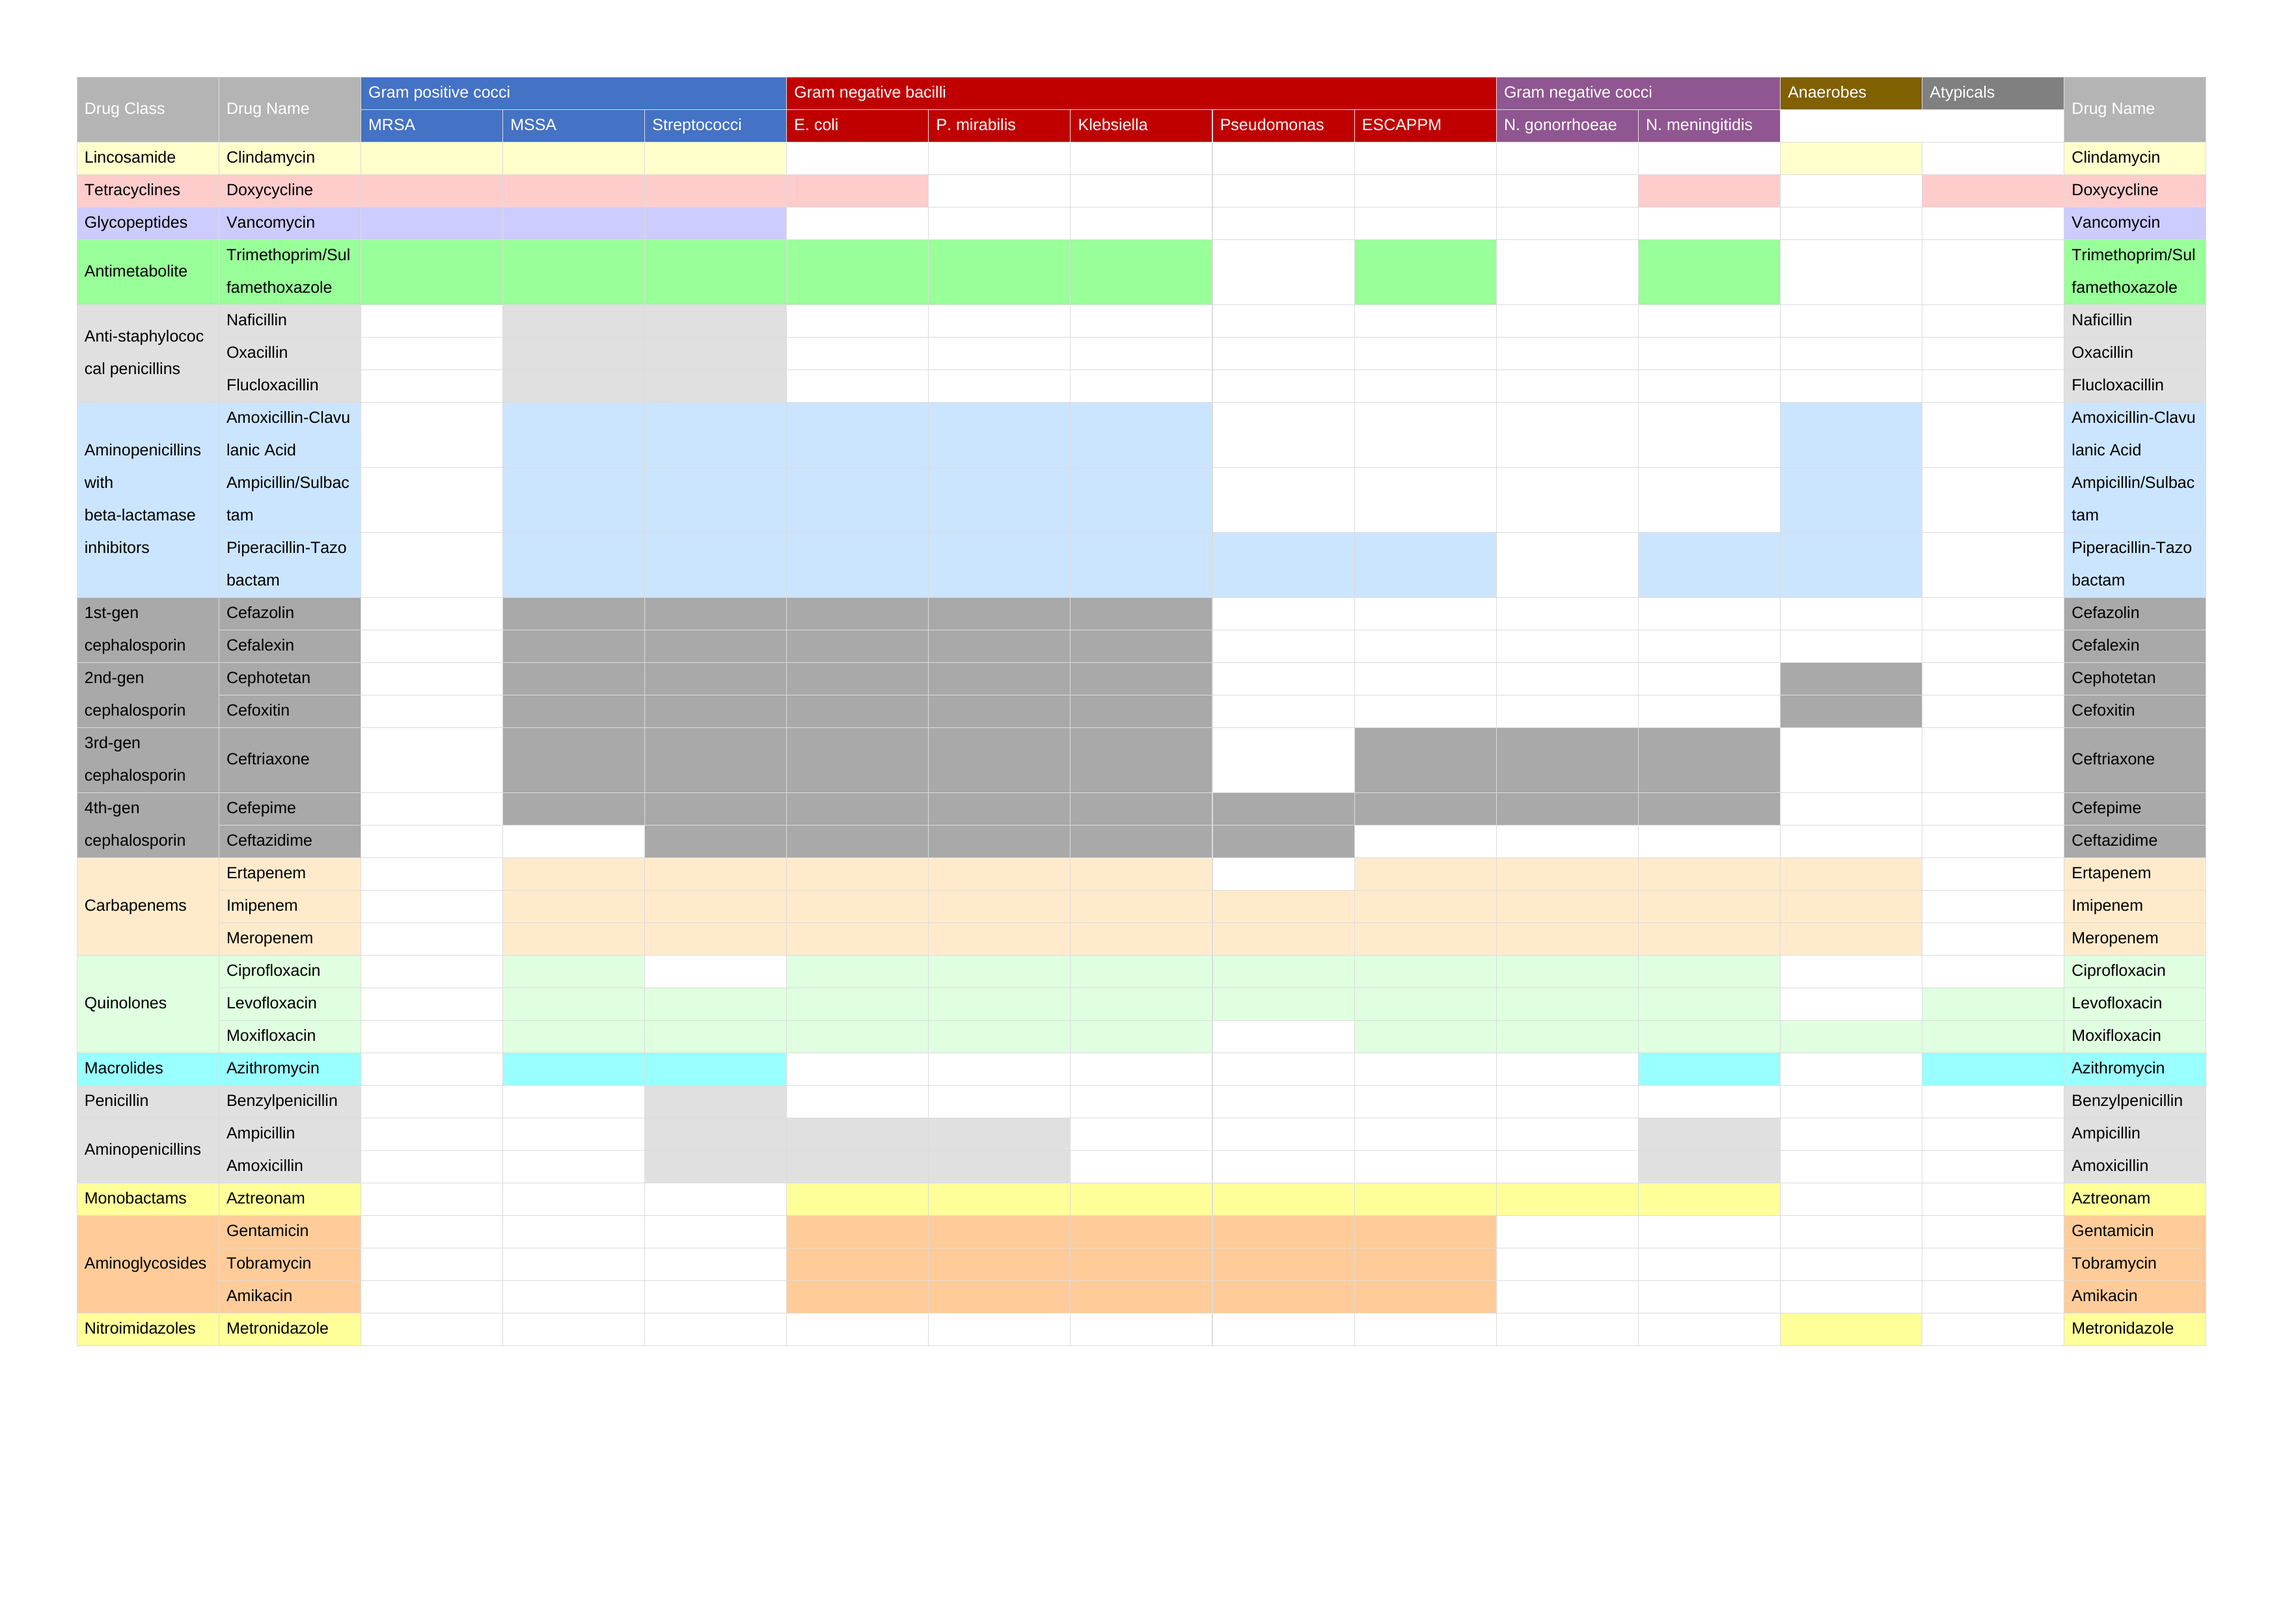
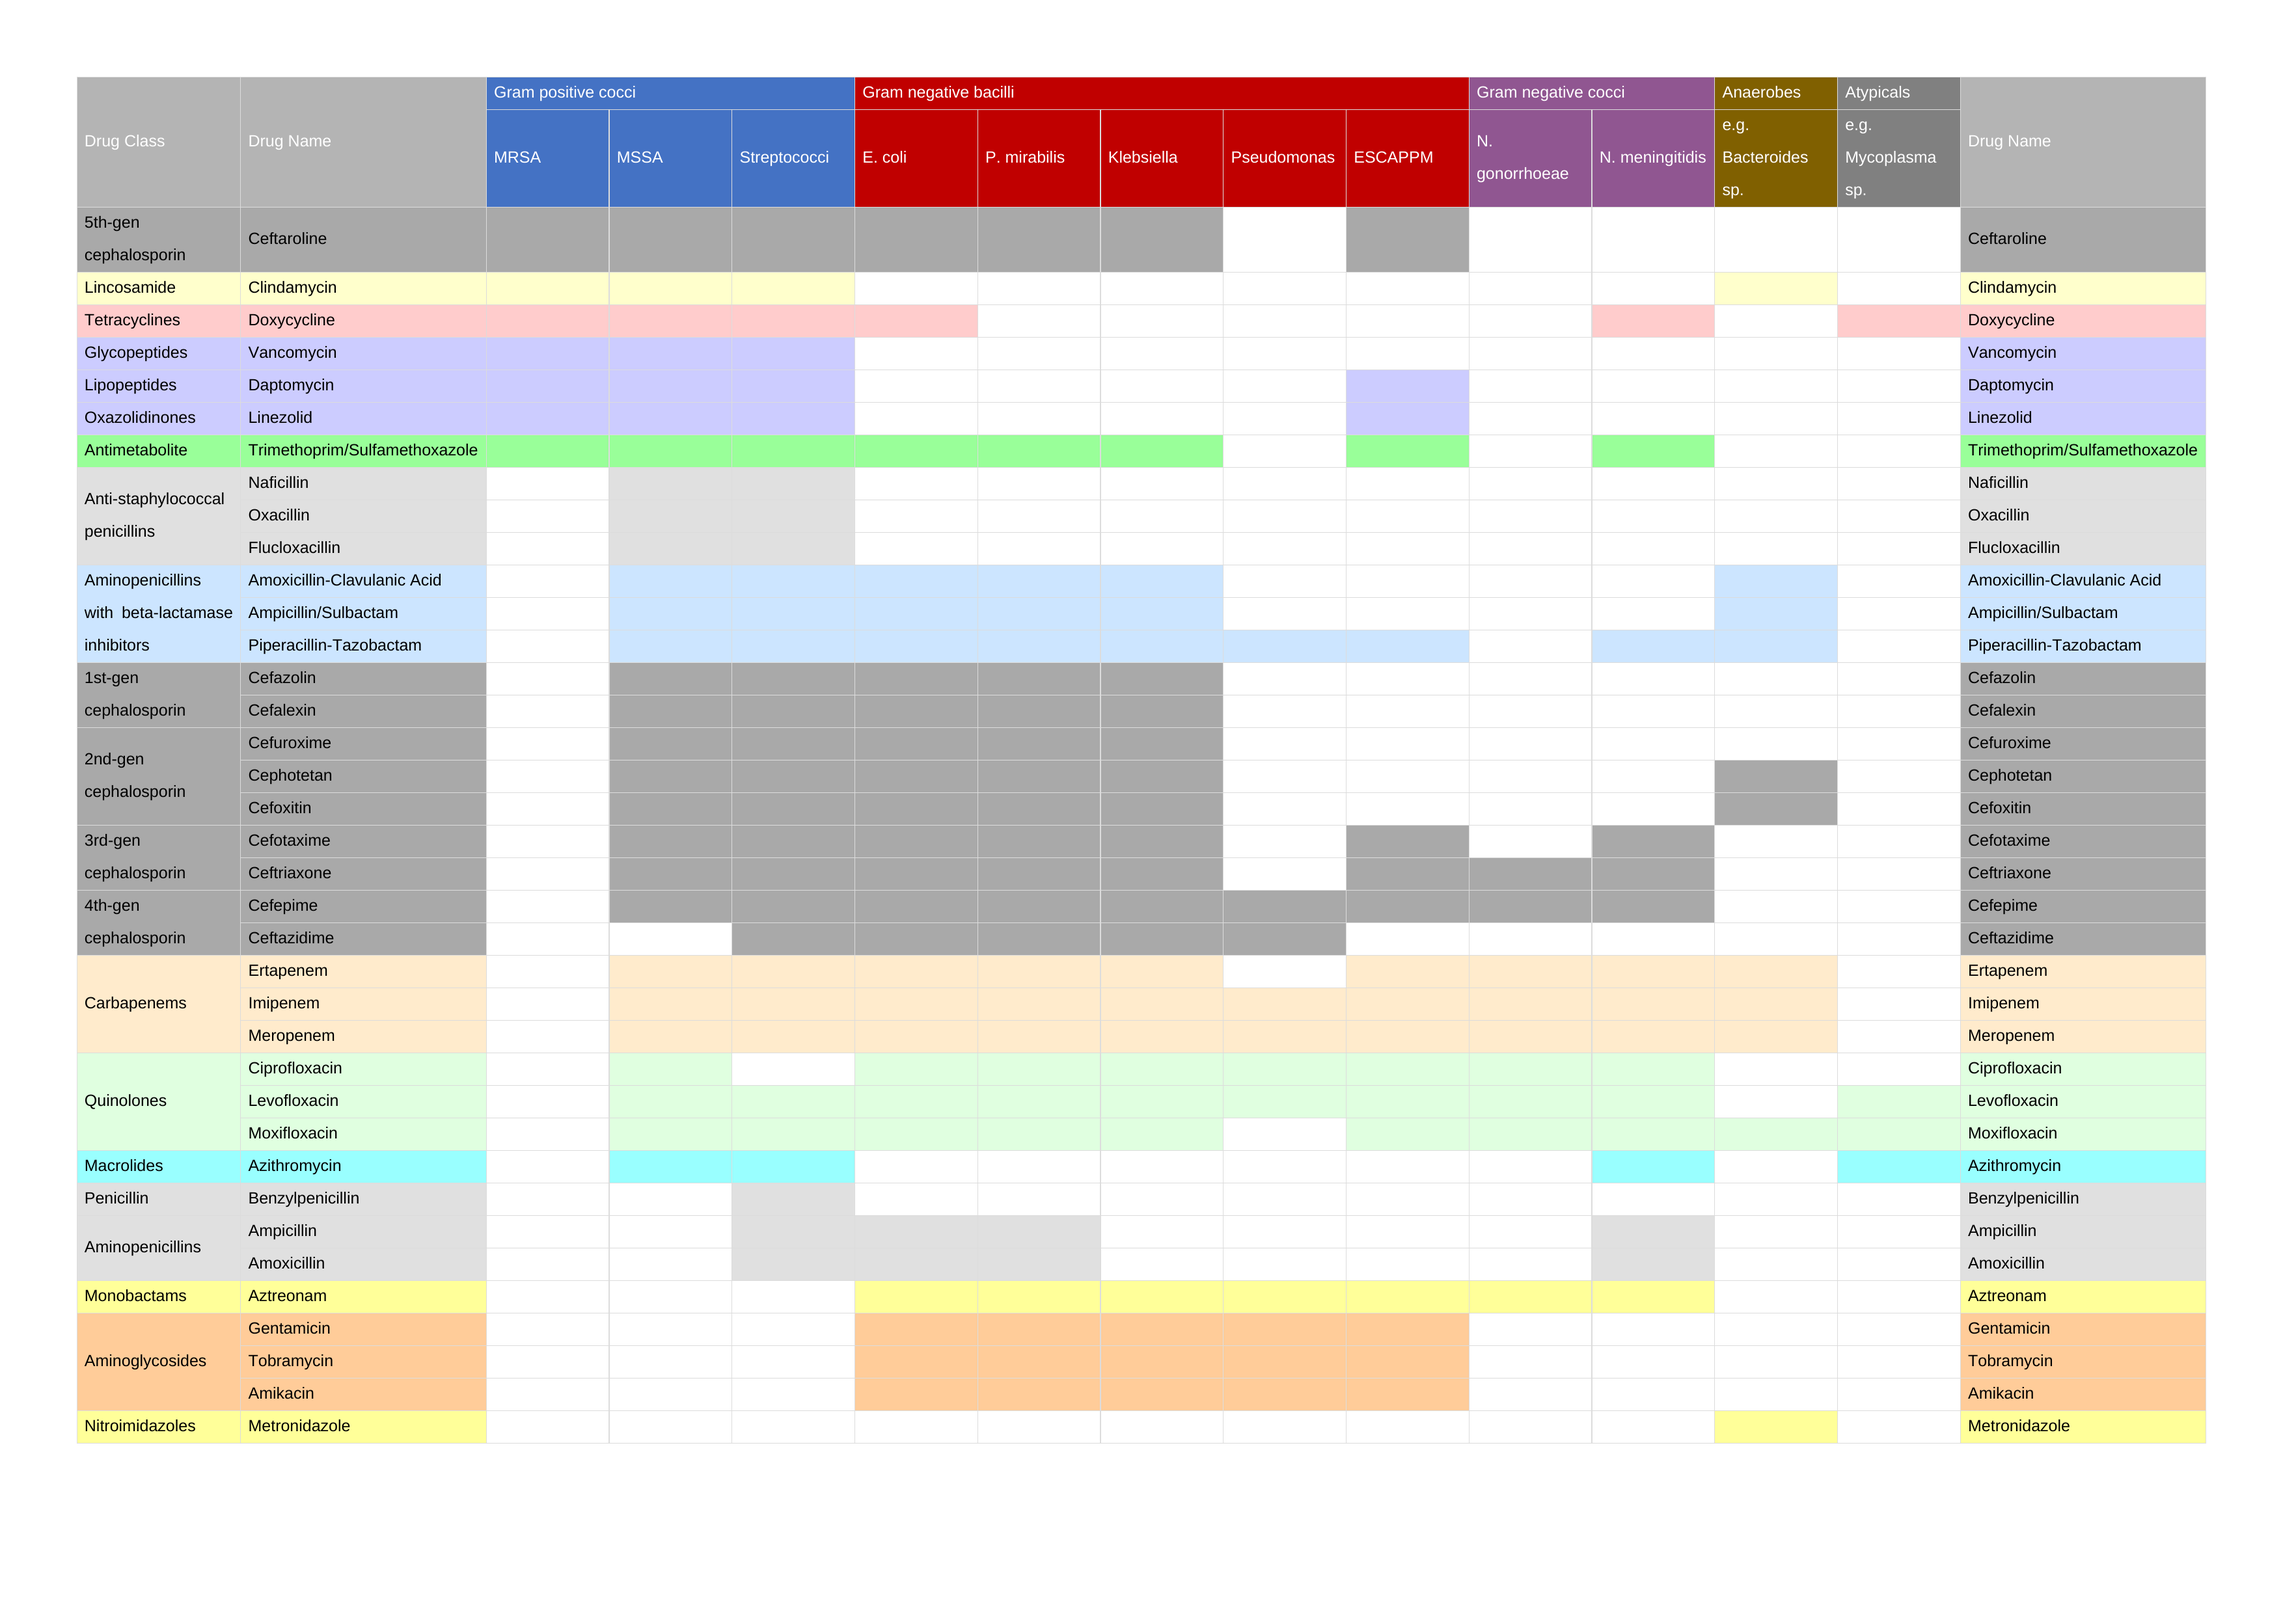
Improve information on organism coverage

diff --git a/convert_excel.py b/convert_excel.py
@@ -21,6 +21,8 @@ COLOURS = {
     "Lincosamide": (255, 255, 204),
     "Tetracyclines": (255, 204, 204),
     "Glycopeptides": (204, 204, 255),
+    "Lipopeptides": (204, 204, 255),
+    "Oxazolidinones": (204, 204, 255),
     "Antimetabolite": (153, 255, 153),
     "Nitroimidazoles": (255, 255, 153),
     "Gram positive cocci": (68, 114, 196),
@@ -155,6 +157,15 @@ def generate_pdf(
     row_spans["Drug Name"] = 2
     row_spans["Drug Name "] = 2
 
+    # generate column width list
+    width_options = [8, 12, 6]
+    col_widths = [
+        *width_options[0:2],
+        *[width_options[2]] * (len(header_0[0]) - 3),
+        width_options[1],
+    ]
+    print(col_widths)
+
     heading_style = FontFace(
         color=background_colour, emphasis="BOLD", fill_color=(220, 220, 220)
     )
@@ -163,13 +174,14 @@ def generate_pdf(
     )
     table_text = list()
     with pdf.table(
+        col_widths=col_widths,
         headings_style=heading_style,
         num_heading_rows=2,  # type: ignore
     ) as table:
         for i, data_row in enumerate(table_data):
             drug_class = data_row[0]  # first column is Drug Class
             row = table.row()
-            row_colour = colours.get(drug_class, background_colour)
+            row_colour = colours.get(drug_class, (180, 180, 180))
             pdf.set_fill_color(*row_colour)
 
             for j, datum in enumerate(data_row):
@@ -254,7 +266,7 @@ def generate_image(
     ]
     try:
         subprocess.run(command, stderr=subprocess.DEVNULL, check=True)
-    except subprocess.CalledProcessError as e:
+    except (subprocess.CalledProcessError, FileNotFoundError) as e:
         print(f"\ngenerate_image function error: {e}")
     return img_filepath
 
